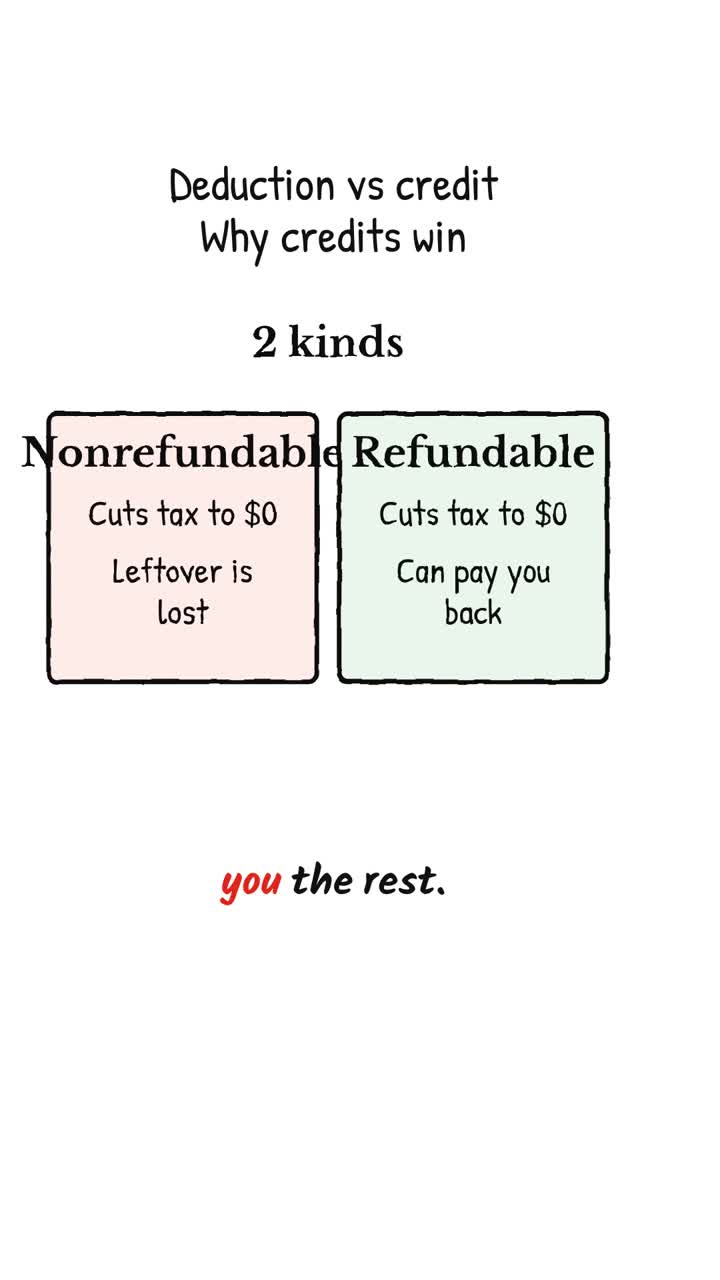
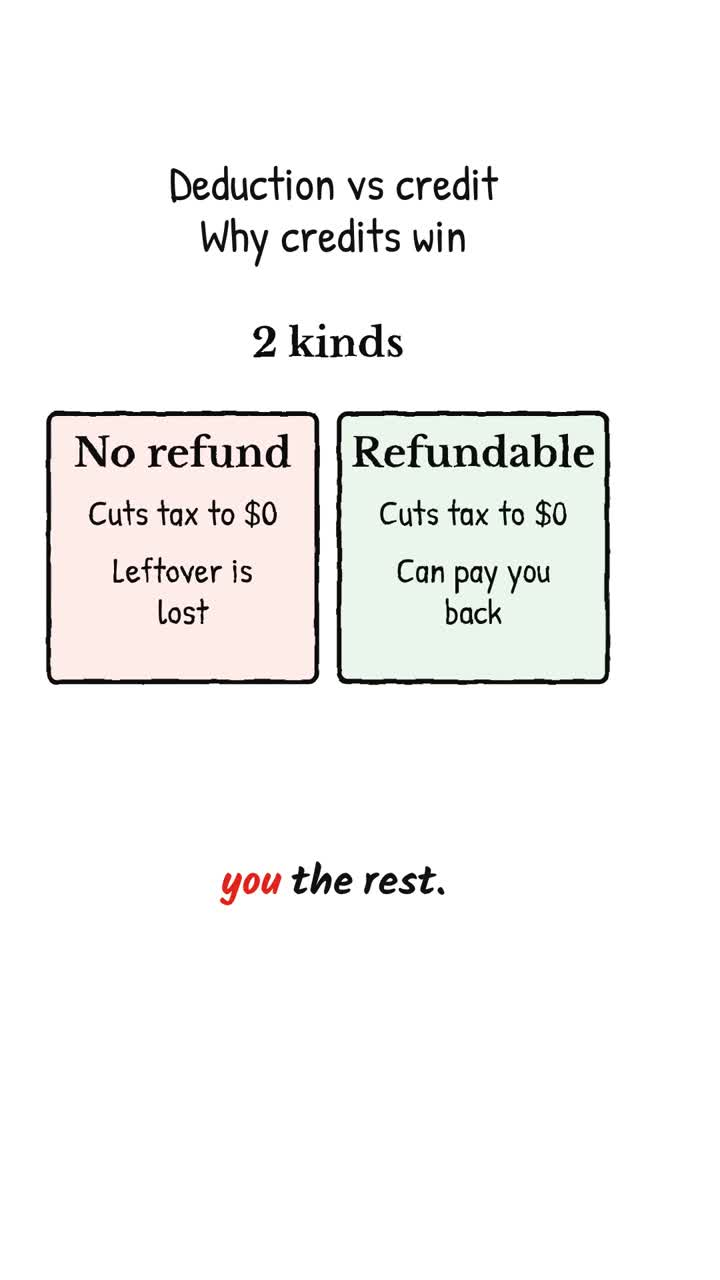
2027-01-26 explainer: built

Changed region(s): [[0.0306, 0.3438, 0.4583, 0.375]]

diff --git a/engine/concepts/scripts/auto/2027-01-26-explainer.factcheck.md b/engine/concepts/scripts/auto/2027-01-26-explainer.factcheck.md
@@ -29,3 +29,4 @@ VERDICT: PASS
 ## Round 2 (editor)
 Reviewed applied fixes (caption/voice match, chart title, tax-year wording, cover); limits pass.
 VERDICT: PASS
+Editor: split left title 'Nonrefundable' overflowed its card; shortened to 'No refund'.
